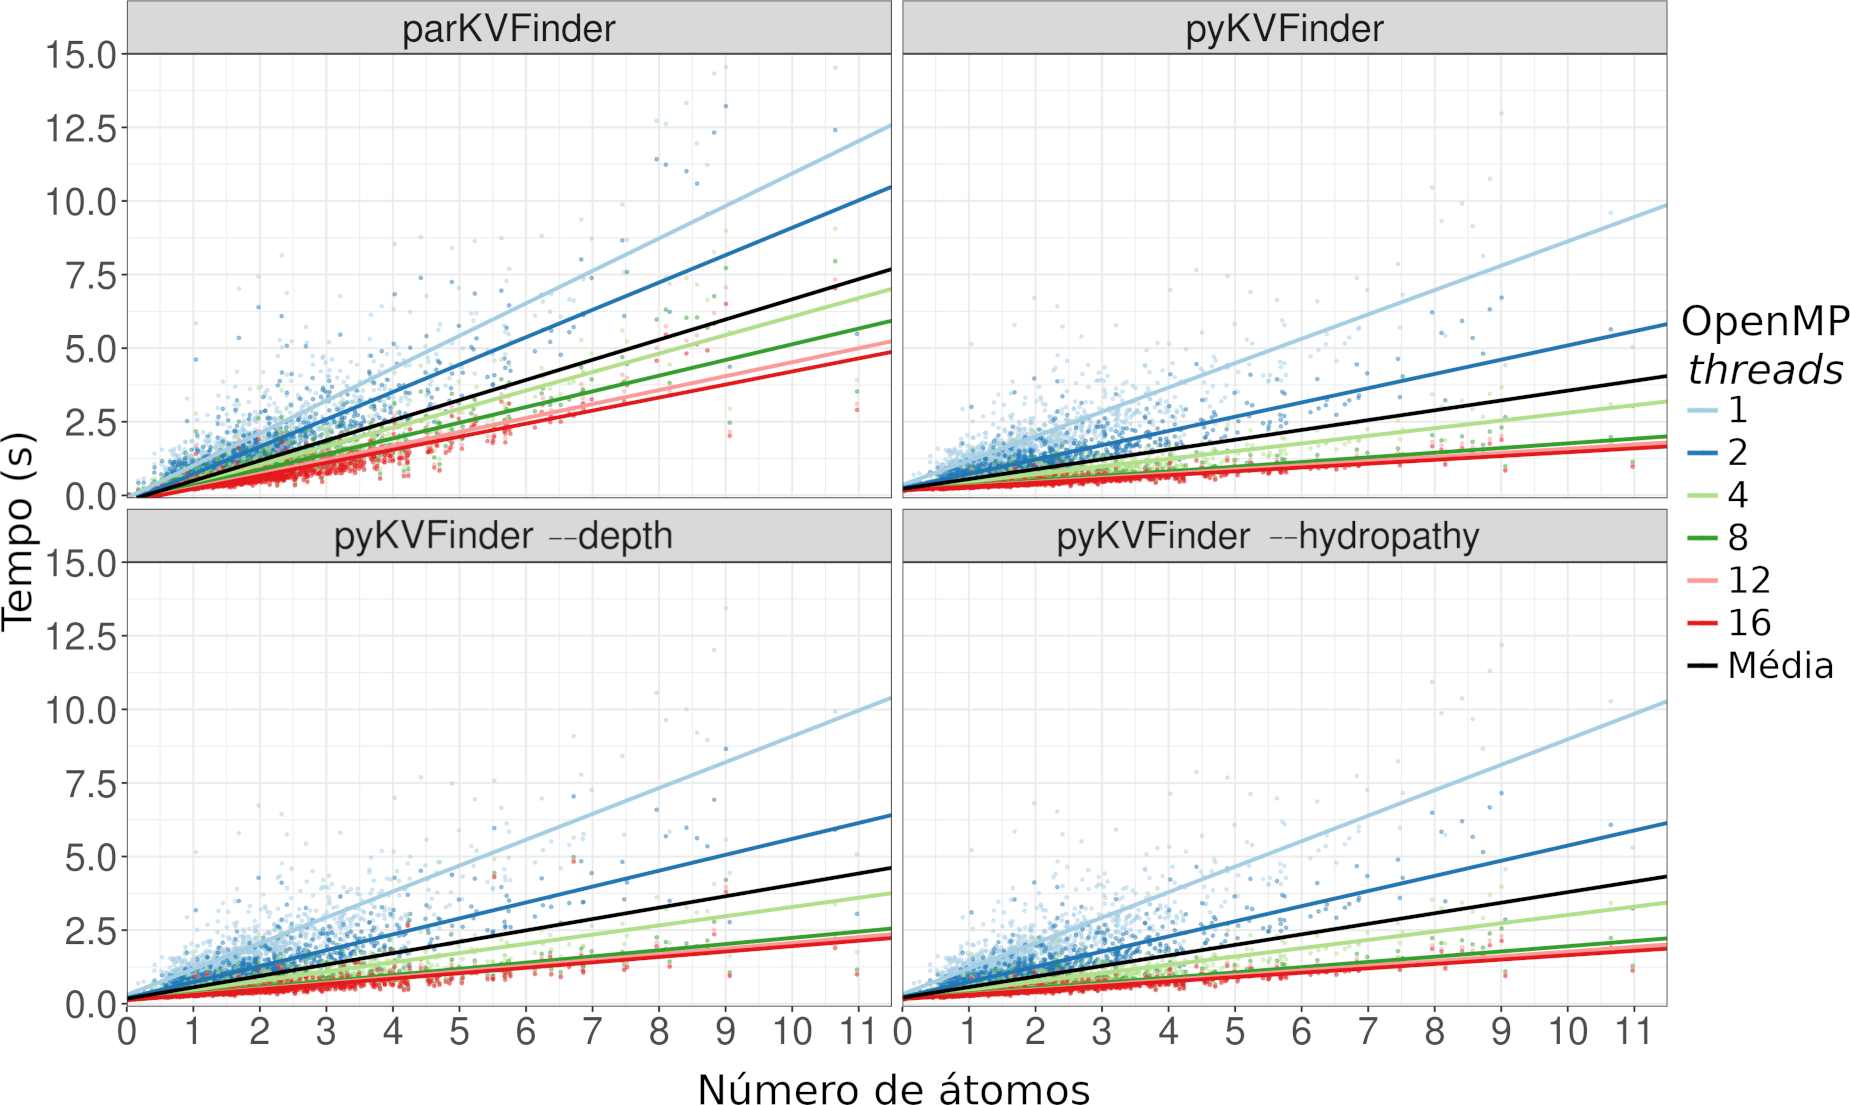
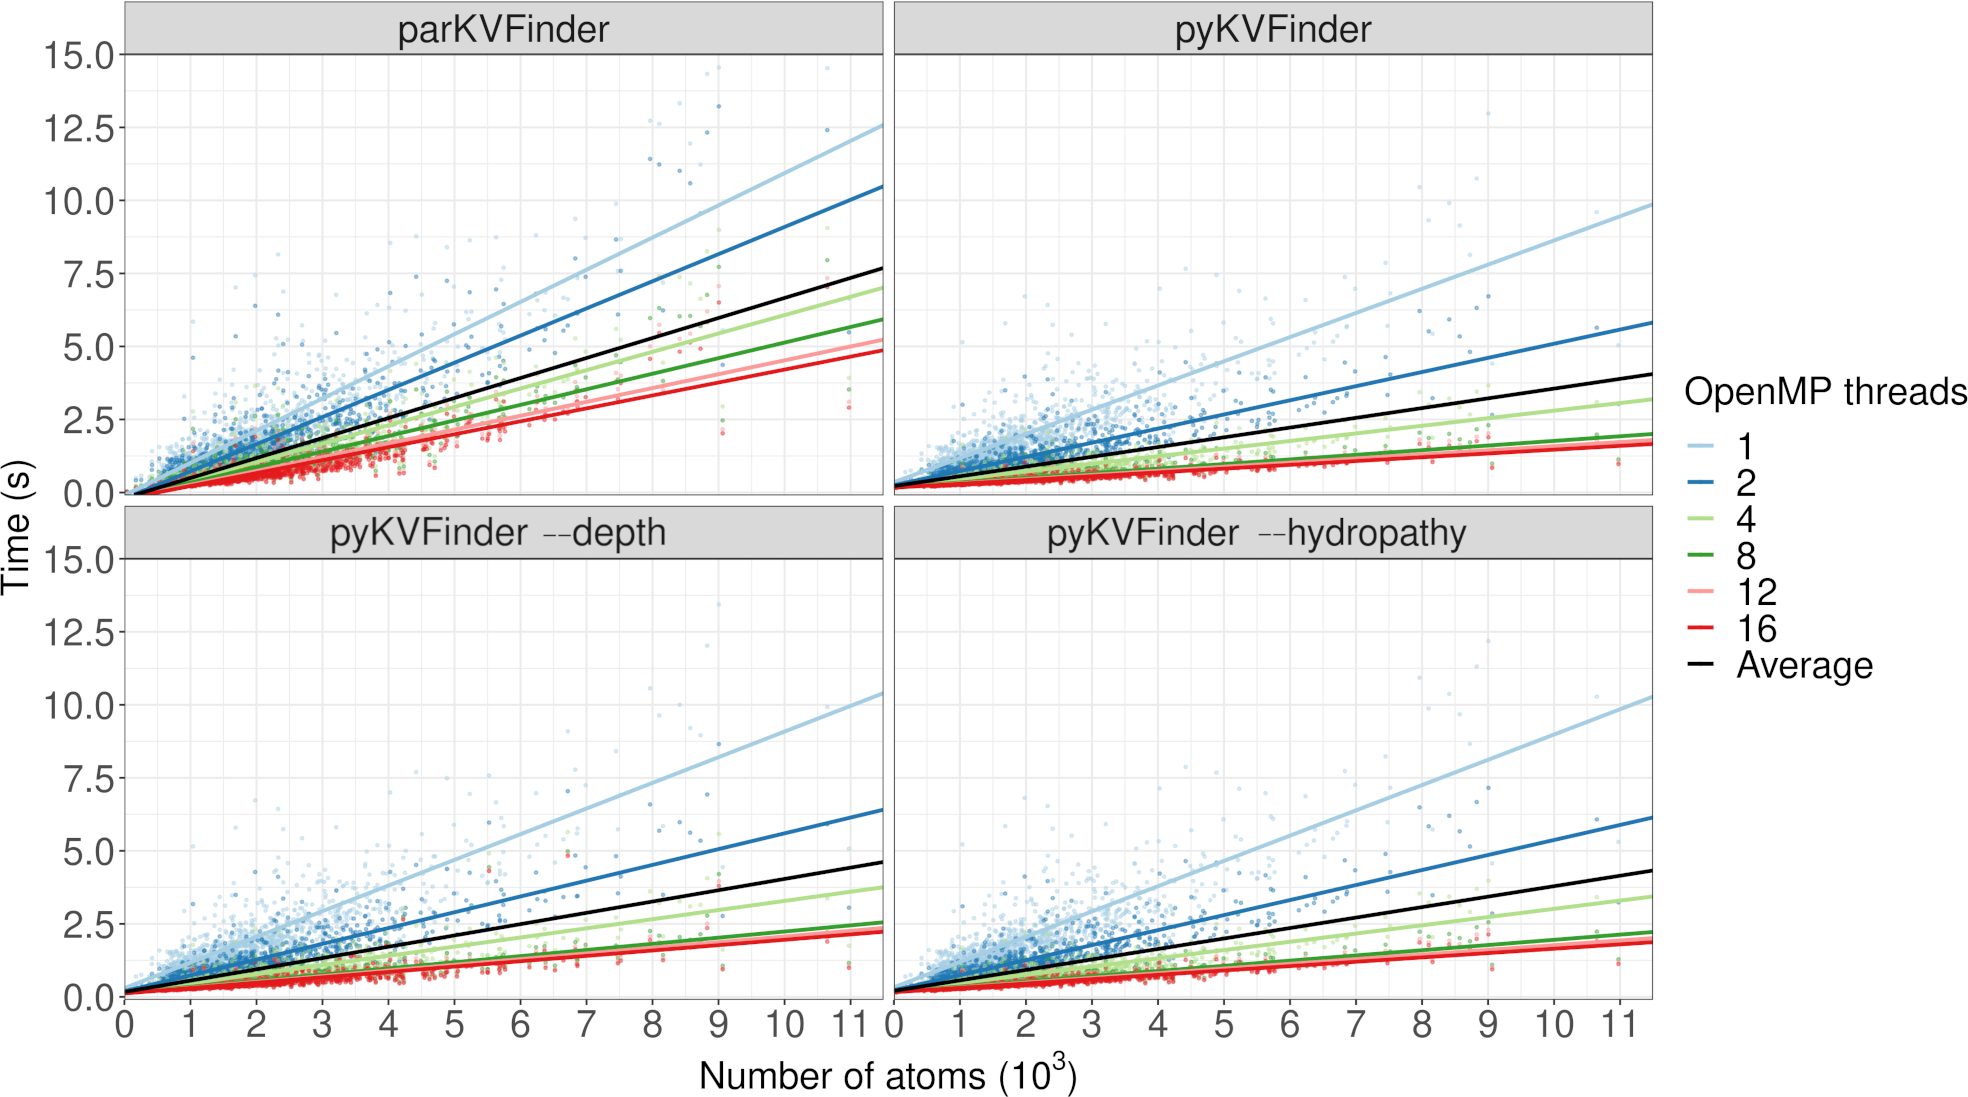
Update pyKVFinder section

diff --git a/phdthesis.tex b/phdthesis.tex
@@ -264,6 +264,7 @@ In recent years, data science and artificial intelligence have revolutionized di
   \acro{MIMD}[MIMD]{Multiple Instruction, Multiple Data}
   \acro{ML}[ML]{\LU{M}{m}achine \LU{L}{l}earning}
   \acro{mmCIF}[mmCIF]{macromolecular Crystallographic Information File}
+  \acro{ndarray}[ndarray]{N-dimensional array}
   \acro{parKVFinder}{parallel KVFinder}
   \acro{PDB}[PDB]{Protein Data Bank}
   \acro{PDI}[PDI]{\LU{P}{p}rotein-DNA \LU{I}{i}nteraction}
@@ -291,7 +292,7 @@ In recent years, data science and artificial intelligence have revolutionized di
   % \acro{HTTP}{\textit{HyperText Transfer Protocol}}
   % \acro{IV CEC}{IV Congresso de Estudantes do CNPEM}
   % \acro{KVFinderMD}{\textit{KVFinder for Molecular Dynamics analysis}}
-  % \acro{ndarray}{\textit{N-dimensional array}}
+  
   % \acro{Nsps}{\textit{Non-structural proteins}}
   % \acro{SARS-CoV-2}{\textit{Severe acute respiratory syndrome Coronavirus 2}}
 \end{acronym}
@@ -1006,20 +1007,25 @@ Despite the successful application of parKVFinder in \acs{MD} simulations \cite{
 
 \section{pyKVFinder}
 
-In data science, pipelines demand efficient routines and algorithms built on easily manipulable data structures. Cavities identified by parKVFinder, like those in other well-known programs such as fpocket \cite{fpocket}, GHECOM \cite{ghecom}, and POVME 3.0 \cite{povme}, are human-readable and easily displayed in molecular visualization programs. However, they are not suitably structured to directly import into automated protocols or data science applications. To address this need, we developed the \ac{pyKVFinder} \cite{guerra2021}, an open-source Python package, licensed under GPL v3.0, for cavity detection and characterization in biomolecular structures within automated protocols and data science applications. The pyKVFinder, featured in BMC Bioinformatics \cite{guerra2021}, has been released as pyKVFinder \href{https://github.com/LBC-LNBio/pyKVFinder/tree/v0.2.5}{pyKVFinder v0.2.5}, available at GitHub. It has since progressed to version \href{https://github.com/LBC-LNBio/pyKVFinder/tree/v0.6.2}{v0.6.2}.
+In data science, data-intensive cavity analysis demand efficient routines and algorithms built on easily manipulable data structures. Cavities identified by parKVFinder, like those in other well-known programs such as fpocket \cite{fpocket}, GHECOM \cite{ghecom}, and POVME 3.0 \cite{povme}, are human-readable and easily displayed in molecular visualization programs. However, they lack suitable structuring for direct integration into automated protocols or data science applications. Addressing this need, we developed the \ac{pyKVFinder} \cite{guerra2021}, an open-source Python package, licensed under GPL v3.0, for cavity detection and characterization in biomolecular structures within automated protocols and data science applications. Subsequently, pyKVFinder was published in BMC Bioinformatics \cite{guerra2021} and released as pyKVFinder \href{https://github.com/LBC-LNBio/pyKVFinder/tree/v0.2.5}{pyKVFinder v0.2.5}, with the current version being \href{https://github.com/LBC-LNBio/pyKVFinder/tree/v0.6.9}{v0.6.9}. The source code is under continuous development and available at the following repository: https://github.com/LBC-LNBio/pyKVFinder.
 
-% No cenário de análise de cavidades de larga escala, os protocolos exigem rotinas e algoritmos eficientes construídos em estruturas de dados de fácil manipulação. As cavidades do parKVFinder, assim como em outros programas bem conhecidos, \eg, fpocket \cite{fpocket}, GHECOM \cite{ghecom} e POVME 3.0 \cite{povme}, são legíveis para humanos e facilmente exibidas em programas de visualização molecular, mas não são adequadamente estruturadas para serem diretamente incorporadas em protocolos automatizados ou aplicações de ciência de dados. Para atender essa necessidade, desenvolvemos o \textbf{Python-C Parallel KVFinder (pyKVFinder)} \cite{guerra2021}, um pacote Python de código aberto, licenciado sob GPL v3.0, para detectar e caracterizar cavidades em estruturas biomoleculares em protocolos automatizados e aplicações de ciência de dados. Posteriormente, o pyKVFinder foi publicado na BMC Bioinformatics \cite{guerra2021}, sendo lançado como \href{https://github.com/LBC-LNBio/pyKVFinder/tree/v0.2.5}{pyKVFinder v0.2.5}. Atualmente, o pyKVFinder está na versão \href{https://github.com/LBC-LNBio/pyKVFinder/tree/v0.6.2}{v0.6.2}. O código-fonte do pyKVFinder está disponível no seguinte repositório: \url{https://github.com/LBC-LNBio/pyKVFinder}.
+pyKVFinder employs a \ac{SWIG} (\url{https://www.swig.org}) to extend \acs{3D} grid operations, written in C, to the high-level programming language, Python. In pyKVFinder, the target biomolecule is inserted in a regular 3D grid, stored as an \ac{ndarray} from the NumPy package \cite{numpy}. To detect cavities, the tool uses a dual-probe algorithm, as shown in Figure \ref{fig:parkvfinder-schema}, which scans the biomolecular structure for regions of inaccessibility (\ie, cavities). In addition to cavity properties like volume, area, and interface residues stored as Python dictionaries, pyKVFinder calculates cavity depth and hydrophobicity. Both cavity points and these morphological and physicochemical properties are stored in \acsp{ndarray} and can be visualized using Python molecular visualization packages (\eg, NGLView \cite{nglview} and plotly \cite{plotly}). Moreover, pyKVFinder can be integrated with various scientific packages and libraries (\eg, scikit-learn \cite{scikit-learn} and SciPy \cite{scipy}) for mathematical calculations, statistical analysis, and \acs{3D} visualization using interactive interfaces (\eg, IPython, Jupyter, and JupyterLab notebooks). Thus, pyKVFinder facilitates complex analyses of biostructural data with protocols and algorithms within the Python ecosystem, serving as a building block for new applications in data science, rational drug design, and drug discovery. In essence, pyKVFinder provides a versatile means of detecting and characterizing biomolecular cavities and integrating this information into automated protocols and data science applications.
 
-% O pyKVFinder aplica um \textit{Simplified Wrapper and Interface Generator} (SWIG; \url{https://www.swig.org}) para estender as operações de grade 3D, escritas em C, para a linguagem de programação de alto nível Python. No pyKVFinder, a biomolécula alvo é inserida em uma grade 3D regular, que é armazenada como uma matriz N-dimensional (\textit{ndarray}; \textit{N-dimensional array}) do pacote NumPy \cite{numpy}. Para detectar cavidades, a ferramenta utiliza o algoritmo de dupla sonda, conforme ilustrado na Figura \ref{fig:parkvfinder-schema}, que escaneia a estrutura biomolecular em busca de regiões de inacessibilidade (\ie, cavidades). Além das propriedades da cavidade, como volume, área e resíduos de interface, que são armazenados como dicionários de Python, o pyKVFinder também calcula a profundidade e a hidropatia das cavidades. Tanto os pontos da cavidade quanto essas propriedades espaciais e físico-químicas são armazenadas em \textit{ndarrays} e podem ser visualizadas usando pacotes de visualização molecular no Python (\eg, NGLView \cite{nglview}). Além disso, o pyKVFinder pode ser integrado a uma gama de pacotes e bibliotecas científicas (\eg, scikit-learn \cite{scikit-learn} e SciPy \cite{scipy}) para cálculos matemáticos, análise estatística e visualização tridimensional, usando interfaces interativas (\eg, \textit{IPython, Jupyter} e \textit{JupyterLab notebooks}). Desta forma, o pyKVFinder facilita complexas análises de dados bioestruturais com protocolos e algoritmos dentro do ecossistema Python, além de servir como bloco de construção para novas aplicações em ciência de dados, desenho racional de fármacos e descoberta de medicamentos. Assim, o pyKVFinder fornece uma maneira versátil de detectar e caracterizar cavidades biomoleculares e integrar essas informações em protocolos automatizados e aplicações de ciência de dados.
+\begin{figure}[ht]
+  \centering
+  \includegraphics[scale=1]{images/pykvfinder-speedup.png}
+  \caption[Speedup of pyKVFinder compared to parKVFinder]{\textbf{Speedup of pyKVFinder compared to parKVFinder.} The speedup is the ratio of pyKVFinder's execution time to parKVFinder's execution time, applying the same number of OpenMP threads, for different numbers of atoms.}
+  \label{fig:pykvfinder-speedup}
+\end{figure}
 
-% O desempenho computacional do pyKVFinder também foi avaliado no kv1000 \cite{guerra2020}, apresentando um tempo de execução consideravelmente menor que o parKVFinder, em média 31\% mais rápido (Figura \ref{fig:pykvfinder-speedup}). Mesmo ao adicionar as novas caracterizações disponíveis, profundidade e hidropatia, o desempenho do pyKVFinder foi reduzido em apenas 5\% (para profundidade) e 4\% (para hidropatia) em média, independentemente do número de \textit{threads} utilizados (Figura \ref{fig:pykvfinder-parkvfinder-kv1000-comparison}). A principal razão para o ganho de desempenho é a possibilidade adicional de paralelizar as rotinas, ou seja, a inserção de átomos na grade 3D na função de detecção (\ie, \textit{pyKVFinder.detect}), baseada em \textit{ndarrays}. A maior melhoria foi observada em proteínas com mais de 2000 átomos, alcançando uma velocidade $\aproximadamente4{,}3$ vezes maior em proteínas com 11000 átomos, o que beneficia o crescente número de estruturas de alta ordem resolvidas atualmente. Para proteínas muito pequenas ($\less2000$ átomos), que representam uma porção menor das estruturas disponíveis, o ganho de desempenho do pyKVFinder não foi significativo ou até menor do que o do parKVFinder, principalmente devido à leitura em Python do arquivo PDB ou XYZ do alvo (Figura \ref{fig:pykvfinder-speedup}). Portanto, usuários experientes que necessitam de rotinas de \textit{scripting} são encorajados a utilizar o pyKVFinder devido ao seu desempenho aprimorado, enquanto os iniciantes devem priorizar o parKVFinder devido ao seu comportamento monolítico e à simplicidade de instalação e execução. Além disso, a escalabilidade do pyKVFinder com o aumento do número de \textit{threads}, bem como o tempo absoluto para realizar a detecção das cavidades, são apresentados na Figura \ref{fig:pykvfinder-parkvfinder-kv1000-comparison}, seguindo o comportamento apresentado pelo parKVFinder \cite{guerra2020}.
+The computational performance of pyKVFinder was also assessed on kv1000 \cite{guerra2020}, exhibiting a considerably shorter runtime compared to parKVFinder, averaging 31\% faster (Figure \ref{fig:pykvfinder-speedup}). Even with the addition of new characterizations such as depth and hydrophobicity, pyKVFinder's performance was only reduced by an average of 5\% (for depth) and 4\% (for hydrophobicity), regardless of the number of threads used (Figure \ref{fig:pykvfinder-parkvfinder-kv1000-comparison}). The primary reason for this performance gain lies in the additional possibility to parallelize routines, \ie, atom insertion into the 3D grid in the detection function (\ie, \textit{pyKVFinder.detect}), based on \acsp{ndarray}. The most significant improvement was observed in proteins with over 2000 atoms, achieving a speedup of $\sim$4.3 times in proteins with 11000 atoms, benefiting the growing number of currently resolved high-order structures. For very small proteins ($\less 2000$ atoms), which represent a smaller portion of available structures, pyKVFinder's performance gain was not significant or even lower than that of parKVFinder, mainly due to the Python reading of the target's PDB or XYZ file (Figure \ref{fig:pykvfinder-speedup}). Therefore, experienced users requiring scripting routines are encouraged to use pyKVFinder due to its enhanced performance, while beginners should prioritize parKVFinder due to its monolithic behavior and ease of installation and execution. Additionally, the scalability of pyKVFinder with an increasing number of threads, as well as the absolute time to perform cavity detection, is presented in Figure \ref{fig:pykvfinder-parkvfinder-kv1000-comparison}, following the behavior exhibited by parKVFinder \cite{guerra2020}.
 
-% \begin{figure}[ht]
-%   \centering
-%   \includegraphics[scale=1]{images/pykvfinder-speedup.png}
-%   \caption[Ganho de velocidade do pyKVFinder comparado ao parKVFinder]{\textbf{Ganho de velocidade do pyKVFinder comparado ao parKVFinder.} O \textit{speedup} é a razão entre o tempo de execução do pyKVFinder e o tempo de execução do parKVFinder, aplicando o mesmo número de OpenMP \textit{threads}, para diferentes números de átomos.}
-%   \label{fig:pykvfinder-speedup}
-% \end{figure}
+\begin{figure}[h]
+  \centering
+  \includegraphics[scale=0.95]{images/pykvfinder-parkvfinder-kv1000-comparison.png}
+  \caption[Computational time as a function of the number of atoms with different numbers of threads for parKVFinder and pyKVFinder]{\textbf{Computational time as a function of the number of atoms with different numbers of threads for parKVFinder and pyKVFinder.} Top left panel: parKVFinder. Top right panel: pyKVFinder with default characterization (volume, area, and interface residues). Bottom left panel: pyKVFinder with default and depth characterizations. Bottom right panel: pyKVFinder with default and hydrophobicity characterizations.}
+  \label{fig:pykvfinder-parkvfinder-kv1000-comparison}
+\end{figure}
 
 % \subsection{Implementações de novas caracterizações}
 
@@ -1343,13 +1349,6 @@ In data science, pipelines demand efficient routines and algorithms built on eas
 % % o caso das ALDH1/2, exploramos as diferenças topológicas e volumétricas entre os sítios de ligação do substrato de ALDH1 e ALDH2, o que dita a preferência por aldeídos menores e maiores entre eles.
 
 % \chapter{Figuras suplementares \label{ap:figuras-suplementares}}
-
-% \begin{figure}[htb]
-%   \centering
-%   \includegraphics[scale=1]{images/pykvfinder-parkvfinder-kv1000-comparison.png}
-%   \caption[Tempo computacional em função do número de átomos com diferentes números de \textit{threads} para o parKVFinder e o pyKVFinder]{\textbf{Tempo computacional em função do número de átomos com diferentes números de \textit{threads} para o parKVFinder e o pyKVFinder.} Quadro superior esquerdo: parKVFinder. Quadro superior direito: pyKVFinder com caracterização padrão (volume, área e resíduos de interface). Quadro inferior esquerdo: pyKVFinder com caracterização padrão e de profundidade. Quadro inferior direito: pyKVFinder com caracterização padrão e de hidropatia}
-%   \label{fig:pykvfinder-parkvfinder-kv1000-comparison}
-% \end{figure}
 
 % \begin{figure}[htb]
 %   \centering
